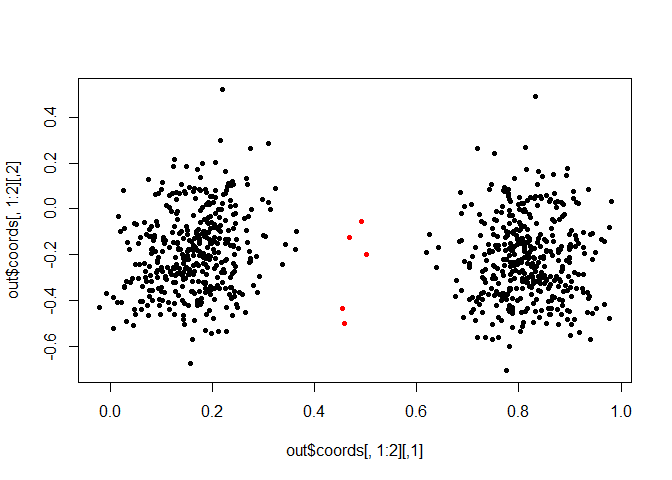
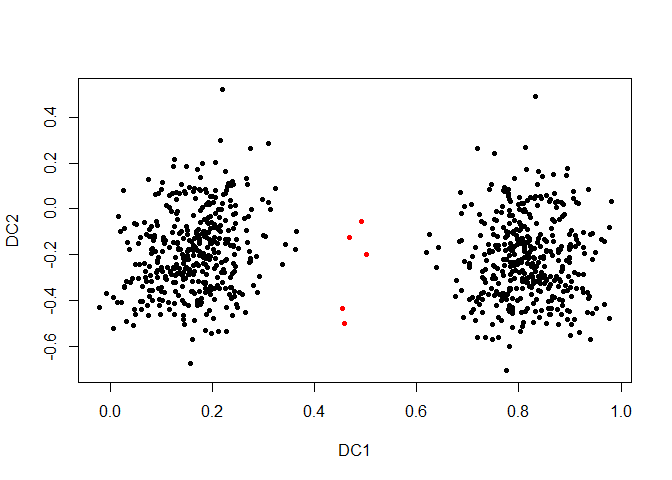
minor changes in rmd

Changed region(s): [[0.4375, 0.9062, 0.625, 0.9688], [0.0, 0.4375, 0.0312, 0.625], [0.0, 0.3438, 0.0312, 0.4062]]

diff --git a/README.md b/README.md
@@ -9,7 +9,7 @@ Installation
 
 ``` r
 # install.packages("devtools")
-# devtools::install_github("sevvandik/dobin")
+# devtools::install_github("sevvandi/dobin")
 ```
 
 Example
@@ -34,7 +34,7 @@ X2 <- cbind(-1*x1_1,x2[1:400],x3[1:400],x4[1:400],x5[1:400],x6[1:400])
 X <- rbind(X1, X2)
 labs <- c(rep(0,400), rep(1,5), rep(0,400))
 out <- dobin(X)
-plot(out$coords[ , 1:2], col=as.factor(labs), pch=20)
+plot(out$coords[ , 1:2], col=as.factor(labs), pch=20, xlab="DC1", ylab="DC2")
 ```
 
 ![](README_files/figure-markdown_github/bimodal-1.png)
